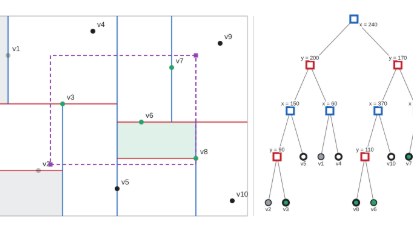
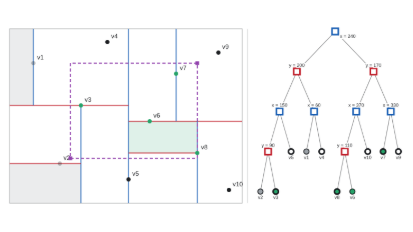
fix: kd-tree review polish and 200 status for GitHub Pages routes
Claude-Session: https://claude.ai/code/session_01GDn6v79cMSt4qkDVCWkMfK

diff --git a/src/players/kdTreePlayer.browser.test.ts b/src/players/kdTreePlayer.browser.test.ts
@@ -223,7 +223,10 @@ test('dragging a corner across the other keeps the handle indices stable', () =>
       const q = input.query
       expect(q.x0).toBeLessThanOrEqual(q.x1)
       expect(q.y0).toBeLessThanOrEqual(q.y1)
-      expect(kdTreePlayer.handles(input)[k === n ? n + 1 : n]).toEqual(fixed)
+      // the corner that is not dragged stays put; its handle too, up to the 1-unit gap that
+      // separates coinciding corner handles
+      expect(k === n ? { x: q.x1, y: q.y1 } : { x: q.x0, y: q.y0 }).toEqual(fixed)
+      expect(distance(kdTreePlayer.handles(input)[k === n ? n + 1 : n], fixed)).toBeLessThanOrEqual(Math.SQRT2 + 1e-9)
     }
     return input.query
   }
@@ -231,6 +234,91 @@ test('dragging a corner across the other keeps the handle indices stable', () =>
   expect(lowerLeft).toEqual({ x0: 200, y0: 150, x1: 370, y1: 280 })
   const upperRight = drag(n + 1, [{ x: 200, y: 150 }, { x: 100, y: 60 }, { x: 40, y: 30 }, { x: 300, y: 250 }], { x: 130, y: 100 })
   expect(upperRight).toEqual({ x0: 130, y0: 100, x1: 300, y1: 250 })
+})
+
+/** The handle StepPlayer grabs at `q`: the nearest within 12 units, the last of equally near ones. */
+function grab(input: KdInput, q: Pt): number {
+  let best = -1
+  let bestD = 12
+  kdTreePlayer.handles(input).forEach((p, i) => {
+    const d = distance(p, q)
+    if (d <= bestD) {
+      best = i
+      bestD = d
+    }
+  })
+  return best
+}
+
+test('a rectangle collapsed at a corner of the plane box can be regrown', () => {
+  const start = preset('Query covers everything')
+  const n = start.points.length
+  // drag the lower-left corner past the upper-right one, at the box's top-right corner
+  let input = start
+  for (const p of [{ x: 300, y: 200 }, { x: 455, y: 345 }, { x: 500, y: 400 }]) input = kdTreePlayer.moveHandle(input, n, p)
+  expect(input.query).toEqual({ x0: PLANE_BOX.x1, y0: PLANE_BOX.y1, x1: PLANE_BOX.x1, y1: PLANE_BOX.y1 })
+  const [lo, hi] = kdTreePlayer.handles(input).slice(-2)
+  // the two corner handles are told apart, both inside the box
+  expect(hi).toEqual({ x: PLANE_BOX.x1, y: PLANE_BOX.y1 })
+  expect(lo).toEqual({ x: PLANE_BOX.x1 - 1, y: PLANE_BOX.y1 - 1 })
+  for (const p of [lo, hi]) expect(inBox(p)).toBe(true)
+  // a press on the corner itself takes the upper-right handle; down-left of it, the lower-left one
+  expect(grab(input, { x: 455, y: 345 })).toBe(n + 1)
+  expect(grab(input, { x: 450, y: 340 })).toBe(n)
+  expect(grab(input, lo)).toBe(n)
+  // the lower-left corner dragged down-left regrows the rectangle
+  let k = grab(input, { x: 450, y: 340 })
+  for (const p of [{ x: 400, y: 300 }, { x: 200, y: 150 }]) input = kdTreePlayer.moveHandle(input, k, p)
+  expect(input.query).toEqual({ x0: 200, y0: 150, x1: 455, y1: 345 })
+  expect(kdTreePlayer.handles(input).slice(-2)).toEqual([{ x: 200, y: 150 }, { x: 455, y: 345 }])
+  const steps = kdTreePlayer.computeSteps(input)
+  expect(steps[steps.length - 1].state.reported).toEqual(bruteForceRange(input.points, input.query))
+
+  // collapsed in x only: only x is separated
+  const thin = kdTreePlayer.moveHandle(start, n, { x: 470, y: 100 })
+  expect(thin.query).toEqual({ x0: 455, y0: 100, x1: 455, y1: 345 })
+  expect(kdTreePlayer.handles(thin).slice(-2)).toEqual([{ x: 454, y: 100 }, { x: 455, y: 345 }])
+
+  // collapsed at the box's lower-left corner: the upper-right handle moves up / right instead
+  let low = kdTreePlayer.moveHandle(start, n + 1, { x: 0, y: 0 })
+  expect(low.query).toEqual({ x0: 15, y0: 15, x1: 15, y1: 15 })
+  expect(kdTreePlayer.handles(low).slice(-2)).toEqual([{ x: 15, y: 15 }, { x: 16, y: 16 }])
+  expect(grab(low, { x: 15, y: 15 })).toBe(n)
+  k = grab(low, { x: 20, y: 20 })
+  expect(k).toBe(n + 1)
+  low = kdTreePlayer.moveHandle(low, k, { x: 120, y: 90 })
+  expect(low.query).toEqual({ x0: 15, y0: 15, x1: 120, y1: 90 })
+
+  // the corner squares are drawn at the handles
+  const scene = makeScene()
+  kdTreePlayer.render(scene, kdTreePlayer.computeSteps(thin)[0], thin)
+  for (const c of kdTreePlayer.handles(thin).slice(-2))
+    expect(paths(scene).filter((p) => near(p.bounds.center.x, c.x) && near(p.bounds.center.y, c.y) && near(p.bounds.width, 7))).toHaveLength(1)
+})
+
+test('the region of the child under test is outlined', () => {
+  const scene = makeScene()
+  const input = textbook()
+  const steps = kdTreePlayer.computeSteps(input)
+  const outlines = () =>
+    paths(scene).filter((p) => p.strokeColor?.toCSS(true) === '#e66100' && p.strokeWidth === 1 && !p.fillColor)
+  const tested = steps.filter((s) => s.state.test)
+  expect(tested.length).toBeGreaterThan(0)
+  for (const step of tested) {
+    expect(step.line).toBeGreaterThanOrEqual(14)
+    expect(step.line).toBeLessThanOrEqual(20)
+    kdTreePlayer.render(scene, step, input)
+    const region = step.state.nodes.find((v) => v.id === step.state.test!.child)!.region
+    const found = outlines()
+    expect(found).toHaveLength(1)
+    expect(found[0].dashArray).toEqual([])
+    const b = found[0].bounds
+    expect([b.left, b.top, b.right, b.bottom].map((v) => +v.toFixed(6))).toEqual([region.x0, region.y0, region.x1, region.y1])
+  }
+  for (const step of steps.filter((s) => !s.state.test)) {
+    kdTreePlayer.render(scene, step, input)
+    expect(outlines()).toHaveLength(0)
+  }
 })
 
 test('tree stays in its area', () => {

diff --git a/src/players/kdTreePlayer.ts b/src/players/kdTreePlayer.ts
@@ -19,6 +19,8 @@ const POINT_RADIUS = 4
 const LEAF_RADIUS = 5
 const SPLIT_SIZE = 12
 const CORNER_SIZE = 7
+/** Least distance between the two corner handles in each direction (see cornerHandles). */
+const CORNER_GAP = 1
 const MAX_POINT_LABELS = 20
 const MAX_NODE_LABELS = 24
 /** Space kept under the deepest row when leaves are labelled, so their labels stay in the area. */
@@ -32,6 +34,23 @@ const clamp = (p: Pt): Pt => ({
   x: Math.min(PLANE_BOX.x1, Math.max(PLANE_BOX.x0, p.x)),
   y: Math.min(PLANE_BOX.y1, Math.max(PLANE_BOX.y0, p.y)),
 })
+/**
+ * The two corner handles. StepPlayer grabs the last handle among equally near ones, so when the
+ * rectangle has collapsed (zero width and/or height) the lower-left handle is reported 1 unit
+ * down / left of the upper-right one in each collapsed direction; the nearer handle then wins and
+ * either corner can be grabbed again. At the box's lower-left edge the upper-right one moves
+ * up / right instead. The query itself is unchanged.
+ */
+function cornerHandles(query: KdInput['query']): [Pt, Pt] {
+  const lo = clamp({ x: query.x0, y: query.y0 })
+  const hi = clamp({ x: query.x1, y: query.y1 })
+  for (const a of ['x', 'y'] as const) {
+    if (hi[a] - lo[a] >= CORNER_GAP) continue
+    if (hi[a] - CORNER_GAP >= (a === 'x' ? PLANE_BOX.x0 : PLANE_BOX.y0)) lo[a] = hi[a] - CORNER_GAP
+    else hi[a] = lo[a] + CORNER_GAP
+  }
+  return [lo, hi]
+}
 const copyInput = (input: KdInput): KdInput => ({ points: input.points.map((q) => ({ x: q.x, y: q.y })), query: { ...input.query } })
 
 /** 14 points at least 20 apart, and a rectangle covering 26–39% of the plane box. */
@@ -99,11 +118,7 @@ const kdTreePlayer: PlayerModule<KdState, KdInput> = {
   hint: 'Drag the points or the two corners of the query rectangle. Keys: ← → to step, Space to play or pause.',
   randomInput,
   presets: KD_PRESETS.map(({ name, input }) => ({ name, input: copyInput(input) })),
-  handles: ({ points, query }) => [
-    ...points.map(clamp),
-    clamp({ x: query.x0, y: query.y0 }),
-    clamp({ x: query.x1, y: query.y1 }),
-  ],
+  handles: ({ points, query }) => [...points.map(clamp), ...cornerHandles(query)],
   moveHandle(input, k, p) {
     const next = copyInput(input)
     const n = input.points.length
@@ -170,6 +185,8 @@ const kdTreePlayer: PlayerModule<KdState, KdInput> = {
       if (seg) new P.Path.Line({ from: pt(seg[0]), to: pt(seg[1]), strokeColor: v.axis === 'x' ? c.x : c.y, strokeWidth: 1.5 })
     }
     rect(query, { strokeColor: c.query, strokeWidth: 2, dashArray: [6, 4] })
+    // lines 14–20: the region of the child under test, a thin solid outline (R is dashed)
+    if (s.test) rect(byId.get(s.test.child)!.region, { strokeColor: c.current, strokeWidth: 1 })
     new P.Path.Line({ from: [SEPARATOR_X, PLANE_BOX.y0], to: [SEPARATOR_X, PLANE_BOX.y1], strokeColor: withAlpha(c.ink, 0.25), strokeWidth: 1 })
 
     // tree: edges, then nodes (squares for splits, circles for leaves), then labels
@@ -223,7 +240,8 @@ const kdTreePlayer: PlayerModule<KdState, KdInput> = {
         fillColor: reported.has(i) ? c.report : faded ? withAlpha(c.ink, 0.3) : c.ink,
       })
     })
-    for (const q of [{ x: query.x0, y: query.y0 }, { x: query.x1, y: query.y1 }]) {
+    // the corners are drawn where they are grabbed (cornerHandles)
+    for (const q of cornerHandles(query)) {
       const h = CORNER_SIZE / 2
       rect({ x0: q.x - h, y0: q.y - h, x1: q.x + h, y1: q.y + h }, { fillColor: c.query })
     }

diff --git a/src/geometry/algorithms/kdtree/verify.ts b/src/geometry/algorithms/kdtree/verify.ts
@@ -28,7 +28,8 @@ function leafPoints(v: KdNode, out: number[] = []): number[] {
 
 /**
  * Checks a tree from `buildKdTree(points)` (spec §2.3), in this order: every point is stored
- * in exactly one leaf ("leaf"); at every split node the left side lies on or before the line,
+ * in exactly one leaf ("leaf"); split nodes alternate x and y with the depth, x at the root
+ * ("axis"); at every split node the left side lies on or before the line,
  * the right side after it in composite order, and `value` is the largest coordinate of the
  * left side ("side"); every region lies in its parent's and every leaf's point in its region
  * ("region"); depths, sizes and the node count match; the height is ⌈log₂ n⌉ ("height").
@@ -50,6 +51,18 @@ export function checkKdTree(points: Pt[], tree: KdTree): Check {
   for (let i = 0; i < n; i++)
     if (count[i] !== 1) return { ok: false, reason: `${label(i)} is stored in ${count[i]} leaves, expected exactly one leaf` }
   if (leaves !== n) return { ok: false, reason: `${leaves} leaves for ${n} points` }
+
+  // the split axes alternate: x at even depth, y at odd depth
+  const axes = (v: KdNode, depth: number): Check => {
+    if (v.kind === 'leaf') return { ok: true }
+    const expected = depth % 2 ? 'y' : 'x'
+    if (v.axis !== expected)
+      return { ok: false, reason: `node ${v.id} at depth ${depth} splits on axis ${v.axis}, expected axis ${expected}` }
+    const l = axes(v.left, depth + 1)
+    return l.ok ? axes(v.right, depth + 1) : l
+  }
+  const a = axes(tree.root, 0)
+  if (!a.ok) return a
 
   for (const v of walk(tree.root)) {
     if (v.kind !== 'split') continue

diff --git a/src/engine/runtime.browser.test.ts b/src/engine/runtime.browser.test.ts
@@ -990,6 +990,28 @@ describe('kd-tree api', () => {
     expect(lines).toEqual([{ kind: 'log', text: '9 true 0' }])
   })
 
+  test('drawKdTree clips every split line to its region, not to the whole box', () => {
+    const { exec, lines } = setup()
+    // the 10 points of the player's Textbook example; the root region is their bounding box + 10
+    const res = exec(`
+      var points = [[60, 280], [110, 90], [150, 200], [200, 320], [240, 60],
+        [280, 170], [330, 260], [370, 110], [410, 300], [430, 40]];
+      var n = drawables.length;
+      drawKdTree(points, kdTree(points));
+      var added = drawables.slice(n);
+      var W = (430 + 10) - (60 - 10), H = (320 + 10) - (40 - 10);
+      var vertical = added.filter(function (d) { return d.bounds.width < 1e-6; });
+      var horizontal = added.filter(function (d) { return d.bounds.height < 1e-6; });
+      console.log(added.length, vertical.length, horizontal.length,
+        vertical.filter(function (d) { return d.bounds.height < H - 1e-6; }).length > 0,
+        horizontal.filter(function (d) { return d.bounds.width < W - 1e-6; }).length > 0,
+        vertical.some(function (d) { return Math.abs(d.bounds.height - H) < 1e-6; }));
+    `)
+    expect(res).toEqual({ ok: true })
+    // 9 split lines; the root's vertical line spans the box, deeper ones are shorter in their own direction
+    expect(lines).toEqual([{ kind: 'log', text: '9 5 4 true true true' }])
+  })
+
   test('the demo runs', () => {
     const { exec, lines } = setup()
     expect(exec(kdTreeDemo)).toEqual({ ok: true })

diff --git a/src/geometry/algorithms/kdtree/kdTree.test.ts b/src/geometry/algorithms/kdtree/kdTree.test.ts
@@ -196,6 +196,17 @@ describe('buildKdTree recorder', () => {
     expect(r2.steps[1].description).toBe('Split v1, v2 at y = 5.0 (median): 1 left, 1 right — ties broken by x')
   })
 
+  it('coincident points across the line are ordered by number', () => {
+    const { steps, rec } = record()
+    buildKdTree(P([[100, 100], [300, 200], [100, 100], [50, 300]]), PLANE_BOX, rec)
+    // x order: v4 (50), v1 = v3 (100, 100), v2 (300) → v4, v1 | v3, v2: v1 and v3 coincide
+    expect(steps[0].description).toBe('Split v1, v2, v3, v4 at x = 100.0 (median): 2 left, 2 right — coincident points ordered by number')
+    // the secondary coordinate differs: the existing note stays
+    const r2 = record()
+    buildKdTree(P([[100, 100], [100, 200], [100, 300], [100, 400]]), PLANE_BOX, r2.rec)
+    expect(r2.steps[0].description).toBe('Split v1, v2, v3, v4 at x = 100.0 (median): 2 left, 2 right — ties broken by y')
+  })
+
   it('more than 10 points are counted, not listed', () => {
     const { steps, rec } = record()
     const pts = Array.from({ length: 14 }, (_, i) => ({ x: 20 + 30 * i, y: 100 + ((i * 37) % 200) }))

diff --git a/src/geometry/algorithms/kdtree/verify.test.ts b/src/geometry/algorithms/kdtree/verify.test.ts
@@ -32,6 +32,22 @@ describe('checkKdTree', () => {
     expect(checkKdTree([], buildKdTree([]))).toEqual({ ok: true })
   })
 
+  it('rejects a split axis that does not alternate', () => {
+    // on a diagonal the x and y orders agree, so only the axis is wrong
+    const pts = P([[50, 50], [100, 100], [150, 150], [200, 200]])
+    expect(checkKdTree(pts, buildKdTree(pts))).toEqual({ ok: true })
+    for (const flip of ['root', 'child'] as const) {
+      const t = clone(buildKdTree(pts))
+      const root = t.root!
+      if (root.kind !== 'split' || root.left.kind !== 'split') throw new Error('unexpected shape')
+      if (flip === 'root') root.axis = 'y'
+      else root.left.axis = 'x'
+      const res = checkKdTree(pts, t)
+      expect(res.ok).toBe(false)
+      expect(res.reason).toMatch(/axis/)
+    }
+  })
+
   it('rejects a missing root', () => {
     const t = clone(buildKdTree(TEXTBOOK))
     t.root = null

diff --git a/src/geometry/algorithms/kdtree/kdTree.ts b/src/geometry/algorithms/kdtree/kdTree.ts
@@ -103,7 +103,10 @@ export function buildKdTree(points: Pt[], box: Box = PLANE_BOX, record?: KdRecor
     views.push({ id, parent, side, depth, region: copyBox(region), axis, value, size: P.length })
 
     const names = P.length <= 10 ? [...P].sort((a, b) => a - b).map(label).join(', ') : `${P.length} points`
-    const tie = points[P2[0]][axis] === value ? ` — ties broken by ${axis === 'x' ? 'y' : 'x'}` : ''
+    // a tie across the line: by the other coordinate, or by number when the two points coincide
+    const other = axis === 'x' ? 'y' : 'x'
+    const [a, b] = [points[P1[P1.length - 1]], points[P2[0]]]
+    const tie = b[axis] !== value ? '' : b[other] === a[other] ? ' — coincident points ordered by number' : ` — ties broken by ${other}`
     emit(
       axis === 'x' ? 4 : 5,
       `Split ${names} at ${axis} = ${fmt(value)} (median): ${P1.length} left, ${P2.length} right${tie}`,

diff --git a/src/content/algorithms/kdTree/demo.js b/src/content/algorithms/kdTree/demo.js
@@ -1,6 +1,7 @@
 var points = Points.createRandom(30);
 var tree = kdTree(points);
 drawKdTree(points, tree);
+new Path.Rectangle({ from: [200, 100], to: [500, 300], strokeColor: 'red' });
 var hits = rangeQuery(points, tree, { x0: 200, y0: 100, x1: 500, y1: 300 });
 hits.forEach(function (i) { points[i].path.fillColor = 'red'; });
 console.log(hits.length + ' point(s) in the range');

diff --git a/src/content/docs/examples/kdTree.js b/src/content/docs/examples/kdTree.js
@@ -1,6 +1,7 @@
 var points = Points.createRandom(30);
 var tree = kdTree(points);
 drawKdTree(points, tree);
+new Path.Rectangle({ from: [200, 100], to: [500, 300], strokeColor: 'red' });
 var hits = rangeQuery(points, tree, { x0: 200, y0: 100, x1: 500, y1: 300 });
 hits.forEach(function (i) { points[i].path.fillColor = 'red'; });
 console.log(hits.length + ' point(s) in the range');

diff --git a/vitest.config.ts b/vitest.config.ts
@@ -14,7 +14,7 @@ export default defineConfig({
         test: {
           name: 'node',
           environment: 'node',
-          include: ['src/**/*.test.ts'],
+          include: ['src/**/*.test.ts', 'scripts/**/*.test.mjs'],
           exclude: ['src/**/*.browser.test.ts'],
         },
       },

diff --git a/README.md b/README.md
@@ -103,7 +103,9 @@ Two targets are supported:
   builds with `VITE_BASE=/webcgal/` and publishes `dist` to
   https://mehmetakifakkus.github.io/webcgal/. Pages has no server-side
   redirects, so `scripts/pages-postbuild.mjs` copies `index.html` to
-  `404.html` (deep links to client-side routes), adds `.nojekyll`, and writes a
+  `<route>.html` and `<route>/index.html` for every app route (read from
+  `src/registry.ts` and `src/content/docs/index.ts`), so deep links answer 200,
+  and to `404.html` for other paths, adds `.nojekyll`, and writes a
   meta-refresh stub for each legacy URL. Enable it once under Settings → Pages
   → Source: "GitHub Actions".
 - **Netlify** (`netlify.toml`): build command `npm run build`, publish
